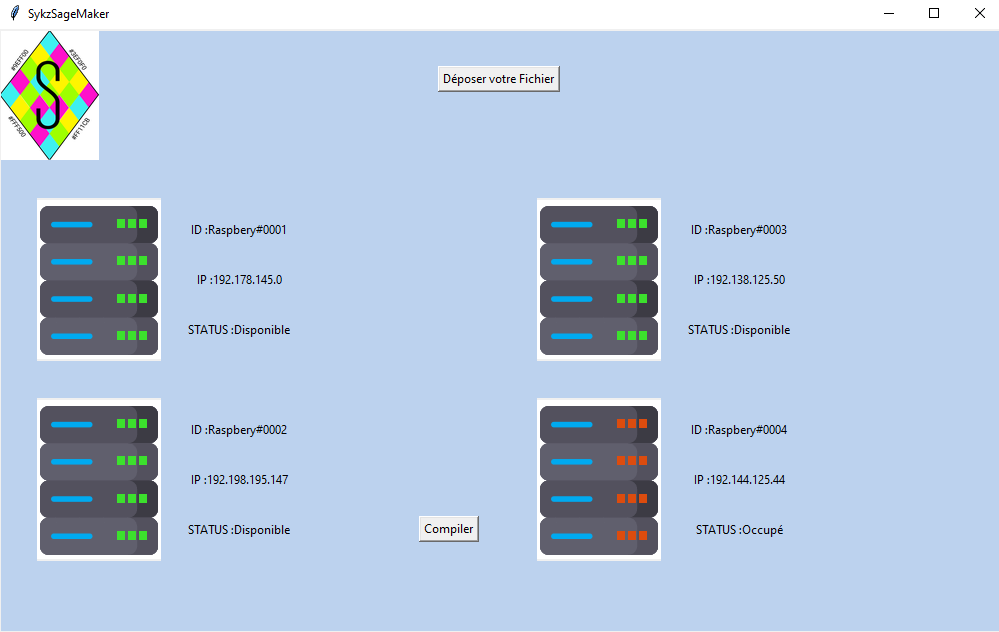
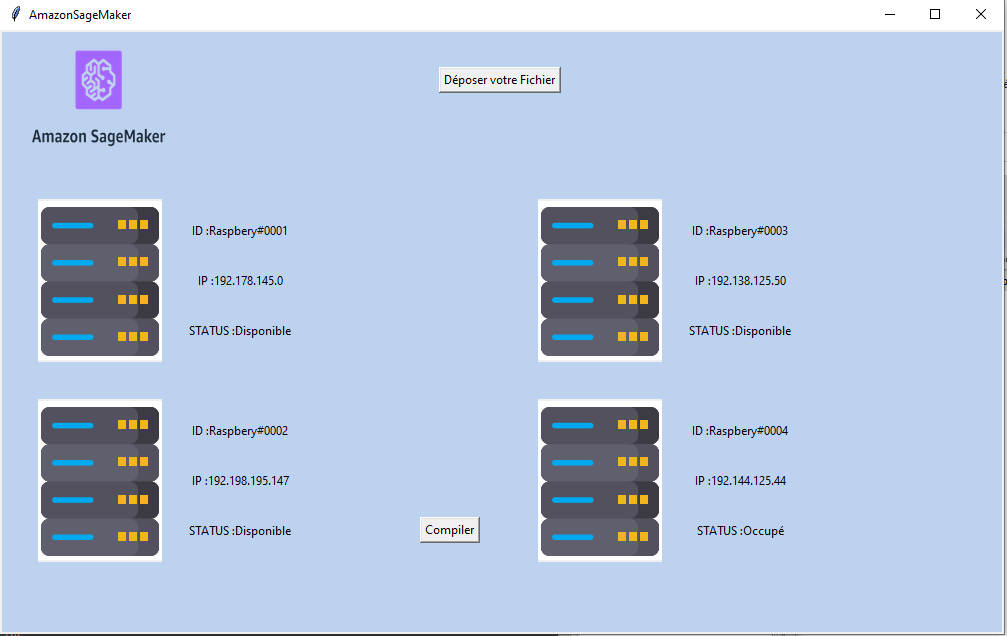
socket

diff --git a/interface.py b/interface.py
@@ -6,26 +6,27 @@ from PIL import ImageTk
 from PIL import Image
 import os
 import shutil
-
+from Client import SendFile
 #Fonction AskopenFilename pour ouvrir un dossier courant
 LST_Types = [( "Script python" , ".py" )]
 
-def send():
-    os.system("git add Input")
-    os.system(""" git commit -m "file to compile" """)
-    os.system("git push")
+
+def sendSSH():
+    global host
+    global file
+    SendFile(host,file)
+
 
 def askopenfile():
+        global host
+        global file
         p=tk.filedialog.askopenfilename ( title = "Sélectionnez un fichier ..." , filetypes = LST_Types )
-        if p=="":
-            pass
-        else:
-            dest=(os.path.abspath(os.getcwd())+"\\Input").replace("\\","/")
-            shutil.move(p,dest)
+        file=p
+        host="10.3.141.1"
             
 #Interface Graphique
 root = tk.Tk()
-root.title("SykzSageMaker")
+root.title("AmazonSageMaker")
 canvas1 = tk.Canvas(root, width = 1000, height = 600, bg = 'lightsteelblue2', relief = 'raised')
 canvas1.pack()
 #canvas1.grid()
@@ -34,12 +35,12 @@ canvas1.pack()
 button1=tk.Button(text='Déposer votre Fichier' , command=askopenfile)
 canvas1.create_window(500,50,window=button1)
 canvas1.pack()
-button2=tk.Button(text='Compiler' , command=send)
+button2=tk.Button(text='Compiler' , command=sendSSH)
 canvas1.create_window(450,500,window=button2)
 canvas1.pack()
 
 imageLogo  = Image.open("static/logo.png")
-imageLogo  =imageLogo.resize((100,130),Image.ANTIALIAS)
+imageLogo  =imageLogo.resize((200,130),Image.ANTIALIAS)
 imageLogo  =ImageTk.PhotoImage(imageLogo)
 canvas1.create_image(0,1, anchor = tk.NW, image=imageLogo)
 canvas1.pack()
@@ -85,16 +86,16 @@ canvas1.create_window(600,450,window=label4)
 canvas1.pack()
 root.after(0, update, 0)
 #Server 1
-Srv1=Server("Raspbery#0001","192.178.145.0","Disponible",(220,200))
+Srv1=Server("Raspbery#0001","10.3.141.14","Disponible",(220,200))
 Srv1.setStatus()
 #
-Srv2=Server("Raspbery#0002","192.198.195.147","Disponible",(220,400))
+Srv2=Server("Raspbery#0002","10.3.141.88","Disponible",(220,400))
 Srv2.setStatus()
 #
-Srv3=Server("Raspbery#0003","192.138.125.50","Disponible",(720,200))
+Srv3=Server("Raspbery#0003","10.3.141.14","Disponible",(720,200))
 Srv3.setStatus()
 #
-Srv4=Server("Raspbery#0004","192.144.125.44","Occupé",(720,400))
+Srv4=Server("Raspbery#0004","10.3.141.44","Occupé",(720,400))
 Srv4.setStatus()
 
 
@@ -104,6 +105,5 @@ Srv4.setStatus()
 #tk.Button(frm, text="Quit", command=root.destroy).grid(column=1, row=10)
 root.mainloop()
 
-def sendSSH(i):
-    pass
+
 

diff --git a/Client.py b/Client.py
@@ -1,0 +1,44 @@
+import time, socket, os
+socket = socket.socket(socket.AF_INET, socket.SOCK_STREAM)
+print (" --------------------------------------------------------------------")
+print (" # AWS SageMaker Cluster ")
+print (" #  Créez, entraînez et déployez rapidement et facilement des modèles de machine learning (ML)  ")
+print (" # pour tous les cas d'utilisation avec une infrastructure, des outils et des flux entièrement gérés")
+print (" -----------------------------------------------------------------")
+
+
+def SendFile(host,nomFich):
+    if nomFich != "":
+        try:
+            fich = open(nomFich, "rb") # test si le fichier existe
+            fich.close()
+
+        except:
+            print (" >> le fichier '" + nomFich + "' est introuvable.")
+            time.sleep(2)
+            exit()
+        octets = os.path.getsize(nomFich) / 1024
+        print (" Envoie du fichier " + nomFich + "' [" + str(octets) + " Ko]")
+        try:
+            socket.connect((host, 8080)) # test si le serveur existe
+        except:
+            print ("le serveur '" + host + "' est introuvable.")
+            time.sleep(2)
+            exit()
+        while (socket.connect):
+            octets = octets * 1024 # Reconverti en octets
+            fich = open(nomFich, "rb")
+            num=0
+            if octets > 1024:	# Si le fichier est plus lourd que 1024 on l'envoi par paquet   
+                for i in range(int(octets / 1024)):                        
+                    fich.seek(num, 0) # on se deplace par rapport au numero de caractere (de 1024 a 1024 octets)
+                    donnees = fich.read(1024) # Lecture du fichier en 1024 octets
+                    socket.sendall(donnees) 
+                    num = num + 1024
+            
+            else: # Sinon on envoi tous d'un coup
+                donnees = fich.read()
+                socket.send(donnees)
+            fich.close()
+    else:
+        print("fichier vide")

diff --git a/server.py b/server.py
@@ -1,0 +1,25 @@
+import time, socket, os
+socket = socket.socket(socket.AF_INET, socket.SOCK_STREAM)
+##################################################################
+# CREATION DU SERVEUR
+##################################################################
+
+print (" >> Creation du serveur (le pare feu peut alerter)")
+socket.bind(("10.3.141.1", 8080)) # Creation du serveur
+socket.listen(1) # Mise en ecoute d'un client
+    
+print( " >> Attente d'une nouvelle connexion...")
+conn, adresse = socket.accept() # accepte le client
+
+print (" >> Vous etes connecte avec : " + adresse[0])
+
+while (conn.connect):
+    recu = ""
+    recu = conn.recv(1024)
+    if not recu : break
+    nomFich = "test.py"                   
+    f = open(nomFich, "wb")
+    identifier = "oui"        
+    f.write(recu)
+
+    

diff --git a/test.py b/test.py
@@ -1,0 +1,1 @@
+print("2")

diff --git a/README.md b/README.md
@@ -1,17 +1,25 @@
 # SykzSageMaker
-## Projet Réseaux L3 informatique Paris Saclay
-Projet : Développer une application qui permet de compiler des modèles de machine Learning sur des serveurs distant 
 
-Notre projet et de reproduire le service d’amazon « AWS Sagemaker » qui consiste à déployer et à entrainer des modèle de ML dans les serveurs raspberry . en cas pratique j’envoie un bout de code à la GUI faite par nous le bout de code sera alors ensuite renvoyé vers le serveur main  (qui gère la distribution des tâches)par SSH ,  le code sera ensuite compiler sur l’un des serveur en fonction de leurs disponibilités , une fois terminé les output (fichiers,txt..) seront communiqué au client directement , 
+## Projet Réseaux L3 informatique Paris Saclay
+
+Projet : Développer une application qui permet de compiler des modèles de machine Learning sur des serveurs distant
+
+Notre projet et de reproduire le service d’amazon « AWS Sagemaker » qui consiste à déployer et à entrainer des modèle de ML dans les serveurs raspberry . en cas pratique j’envoie un bout de code à la GUI faite par nous le bout de code sera alors ensuite renvoyé vers le serveur main (qui gère la distribution des tâches)par SSH , le code sera ensuite compiler sur l’un des serveur en fonction de leurs disponibilités , une fois terminé les output (fichiers,txt..) seront communiqué au client directement ,
 Le client ne se souciera pas des librairies , veillez à laisser son pc allumer … ,il devra juste assurer que son code fonctionne
 .
+
 ## Demo Utulisation
 
 ## Interface Client
+
 ![Alt text](static/interface.jpg)
+
 ## Conception
+
 ![Alt text](static/conception.png)
+
 ## Architecture d'envoie de fichier
+
 ![Alt text](static/architecture_text.png)
 
 ## Requirement Client:
@@ -19,19 +27,24 @@ Le client ne se souciera pas des librairies , veillez à laisser son pc allumer 
 -git </br>
 -python3 </br>
 -pip
+
 ## Requirement Serveur:
+
 -git </br>
 -python3 </br>
 -pip
 
 ## Utilisations Client
+
 ```
 git clone https://github.com/Sykzen/SykzSageMaker.git
 cd SykzSageMaker
 pip install -r requirements_client.txt
 python3 client.py
 ```
+
 ## Utilisations Serveur "main"
+
 ```
 git clone https://github.com/Sykzen/SykzSageMaker.git
 cd SykzSageMaker
@@ -40,10 +53,15 @@ python3 server.py
 ```
 
 ## Add Server
+
 ```
 A venir
 ```
 
 ## Contributors
 
-- [Sykzen](https://github.com/Sykzen) 
+- [Sykzen](https://github.com/Sykzen)
+
+## Source
+
+-https://docs.python.org/3/library/socket.html
